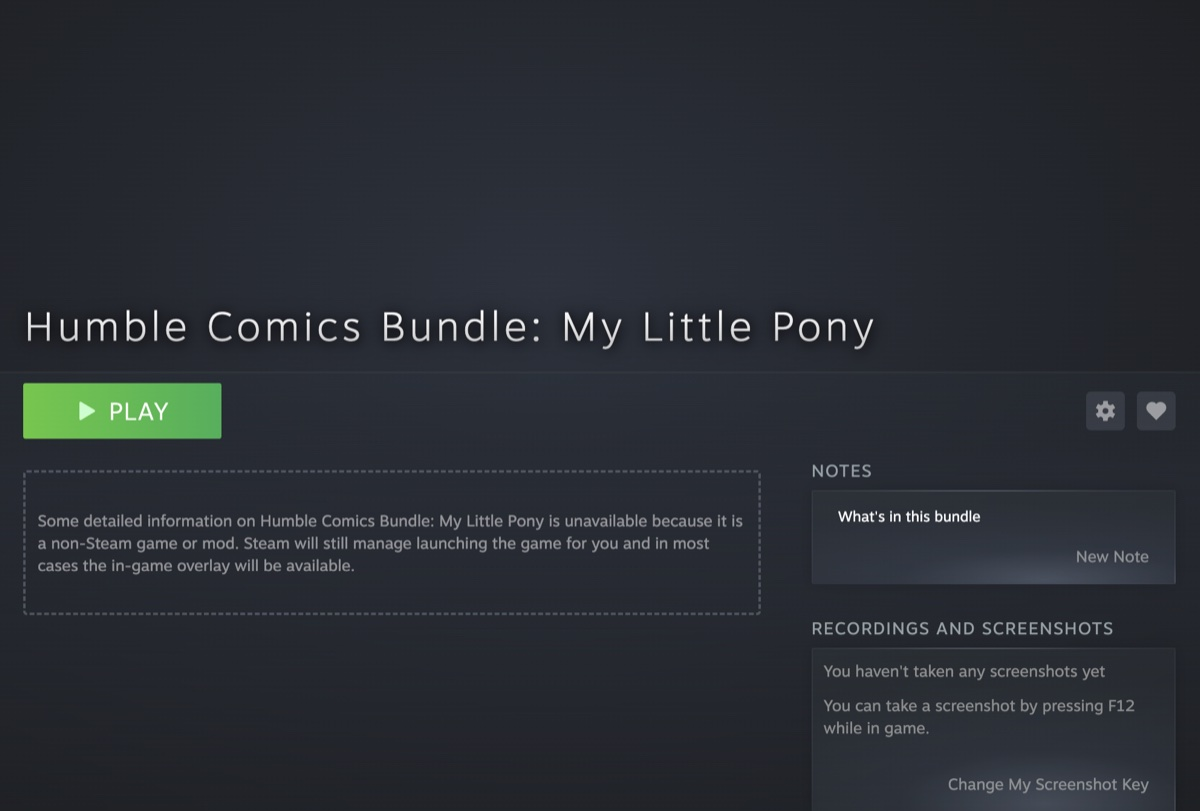
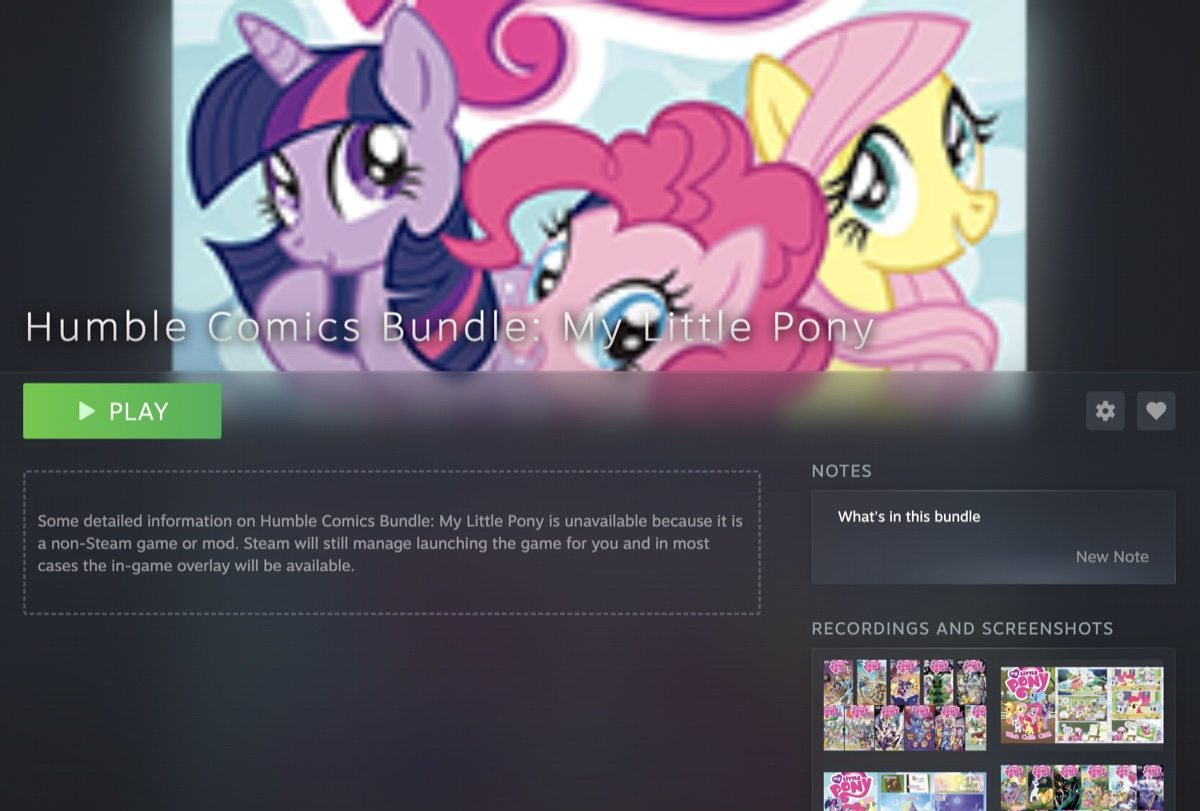
README: the comics bundle's entry with its Humble page's art

diff --git a/README.md b/README.md
@@ -51,8 +51,9 @@ description and the game's store page, and the store page's screenshots:
 
 ![Cave Story+ in Steam, with its screenshots](docs/img/steam-game-cave-story.jpg)
 
-A bundle of comics is one entry: Play opens a page with a folder for each
-download, and its note lists what's in it:
+A bundle of comics is one entry, with art from the bundle's own Humble page (here
+as archived in 2014): Play opens a page with a folder for each download, its note
+lists what's in it, and its Screenshots panel shows the comics:
 
 ![A comics bundle in Steam](docs/img/steam-bundle-entry.jpg)
 
